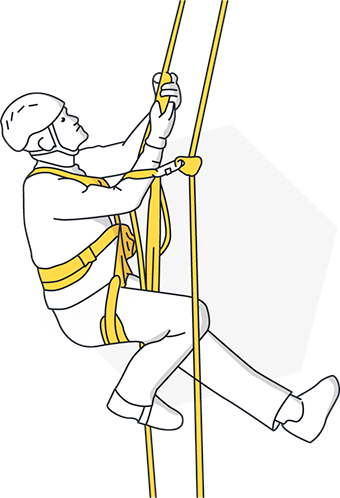
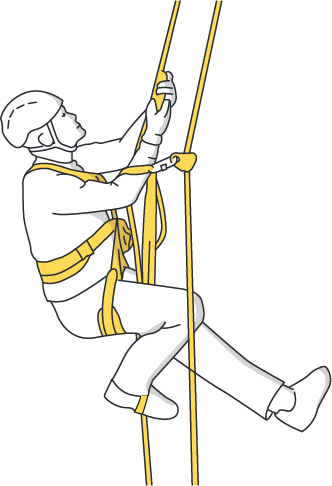
yellow

diff --git a/css/main.css b/css/main.css
@@ -4864,20 +4864,22 @@ ol li::before {
 .first {
 	width: 610px;
 	height: 350px;
-	background-image: url('../img/catalog/2.png');
-	background-repeat: no-repeat;
+	background: url('../img/catalog/2.png') no-repeat, url('../img/svg/polygray.png') no-repeat center;
 }
 
 .first .high-name {
 	top: 120px;
 }
 
+.first:hover {
+	background: url('../img/catalog/2.png') no-repeat, url('../img/svg/polygray-y.png') no-repeat center;
+}
+
 .second {
 	right: -40px;
 	width: 520px;
 	height: 470px;
-	background-image: url('../img/catalog/4.png');
-	background-repeat: no-repeat;
+	background: url('../img/catalog/4.png') no-repeat, url('../img/svg/polygray.png') no-repeat center;
 }
 
 .second .high-name {
@@ -4885,11 +4887,14 @@ ol li::before {
 	max-width: 240px;
 }
 
+.second:hover {
+	background: url('../img/catalog/4.png') no-repeat, url('../img/svg/polygray-y.png') no-repeat center;
+}
+
 .third {
 	width: 610px;
 	height: 520px;
-	background-image: url('../img/catalog/5.png');
-	background-repeat: no-repeat;
+	background: url('../img/catalog/5.png') no-repeat, url('../img/svg/polygray.png') no-repeat 200px 180px;
 }
 
 .third .high-name {
@@ -4897,13 +4902,16 @@ ol li::before {
 	max-width: 270px;
 }
 
+.third:hover {
+	background: url('../img/catalog/5.png') no-repeat, url('../img/svg/polygray-y.png') no-repeat 200px 180px;
+}
+
 .fourth {
 	position: relative;
 	right: 90px;
 	width: 580px;
 	height: 570px;
-	background-image: url('../img/catalog/1.png');
-	background-repeat: no-repeat;
+	background: url('../img/catalog/1.png') no-repeat, url('../img/svg/polygray.png') no-repeat 125px 151px;
 }
 
 .fourth .high-name {
@@ -4912,11 +4920,14 @@ ol li::before {
 	max-width: 200px;
 }
 
+.fourth:hover {
+	background: url('../img/catalog/1.png') no-repeat, url('../img/svg/polygray-y.png') no-repeat 125px 151px;
+}
+
 .fith {
 	width: 712px;
 	height: 835px;
-	background-image: url('../img/catalog/6.png');
-	background-repeat: no-repeat;
+	background: url('../img/catalog/6.png') no-repeat, url('../img/svg/polygray.png') no-repeat 240px top;
 }
 
 .fith .high-name {
@@ -4924,16 +4935,23 @@ ol li::before {
 	max-width: 220px;
 }
 
+.fith:hover {
+	background: url('../img/catalog/6.png') no-repeat, url('../img/svg/polygray-y.png') no-repeat 240px top;
+}
+
 .sixth {
 	width: 550px;
 	height: 500px;
-	background-image: url('../img/catalog/3.png');
-	background-repeat: no-repeat;
+	background: url('../img/catalog/3.png') no-repeat, url('../img/svg/polygray.png') no-repeat 60px 145px;
 }
 
 .sixth .high-name {
 	top: 240px;
 	max-width: 270px;
+}
+
+.sixth:hover {
+	background: url('../img/catalog/3.png') no-repeat, url('../img/svg/polygray-y.png') no-repeat 60px 145px;
 }
 
 .clearfix:before,
